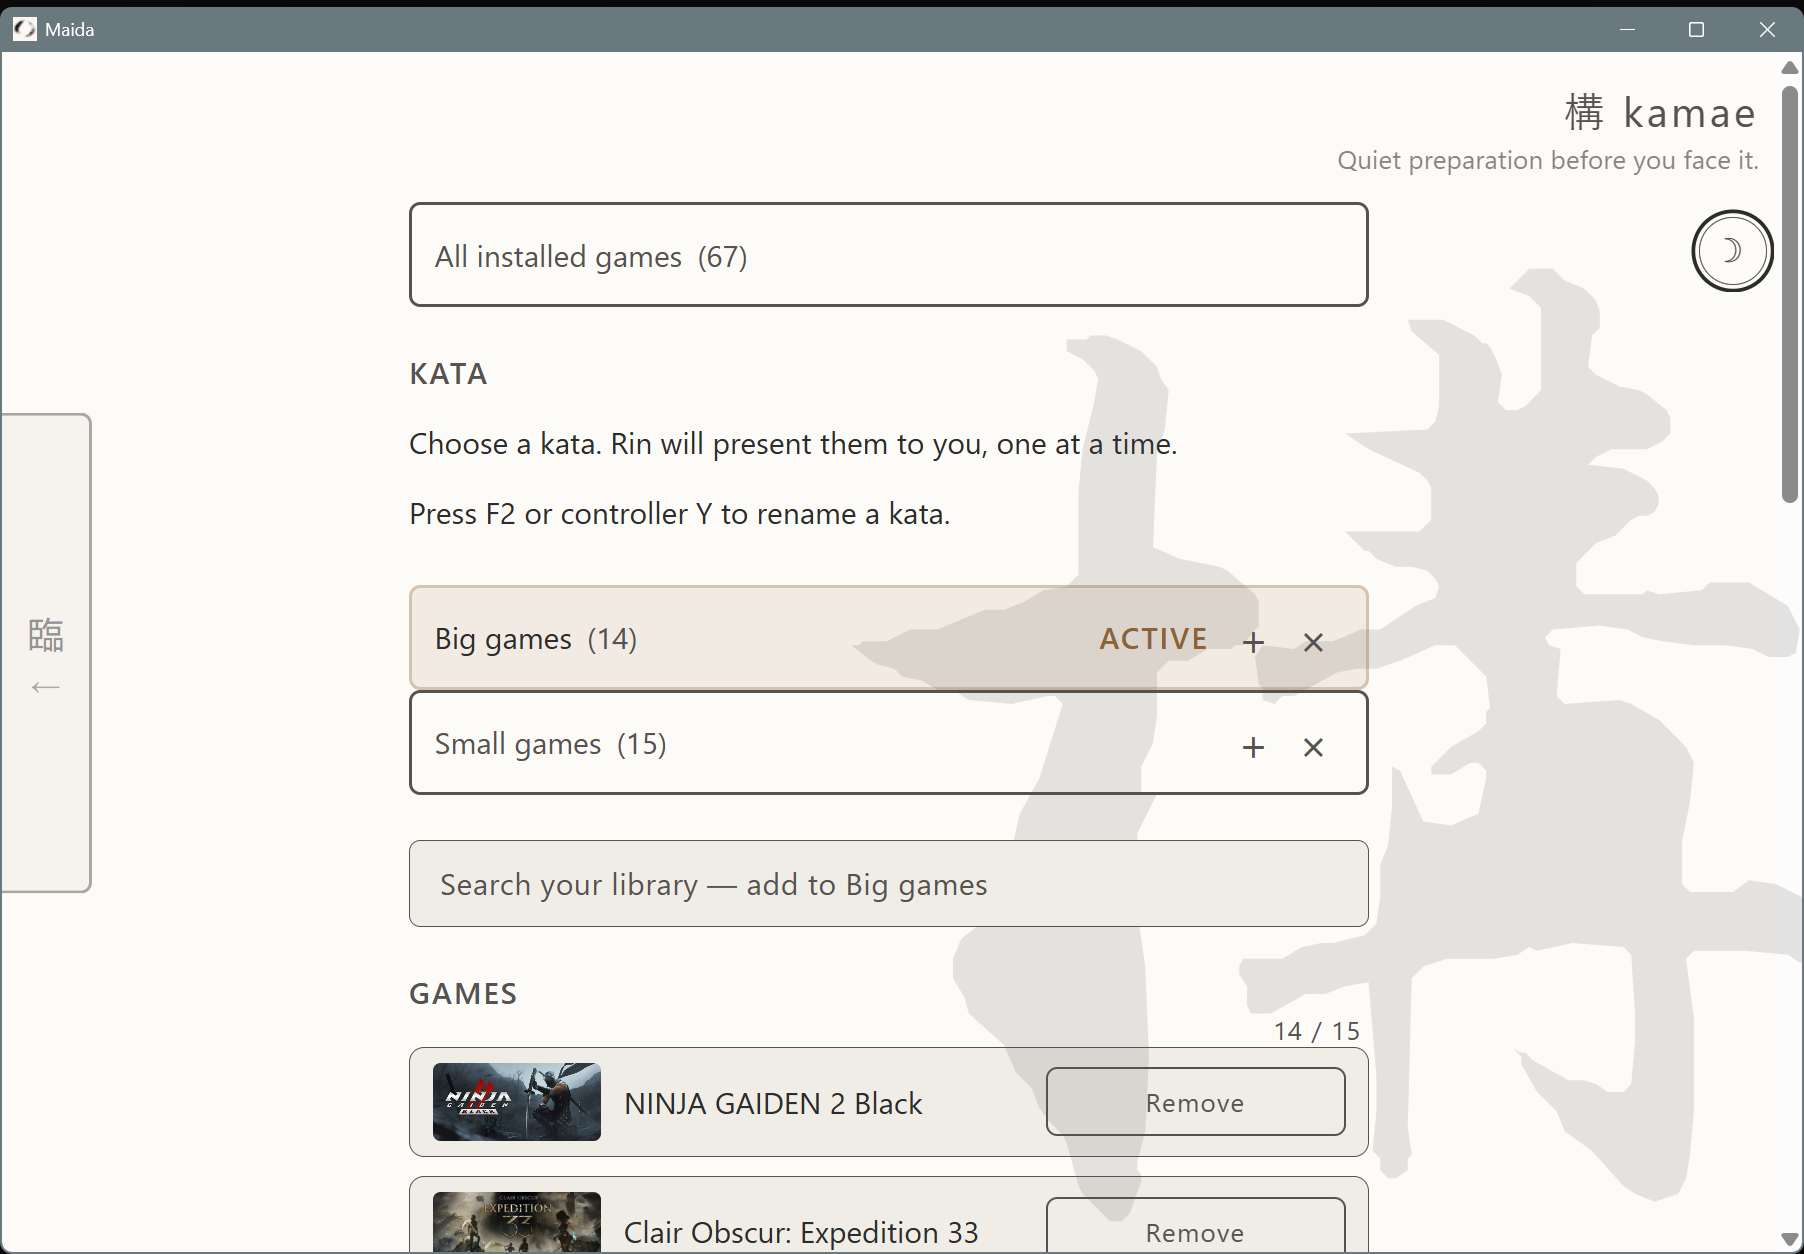
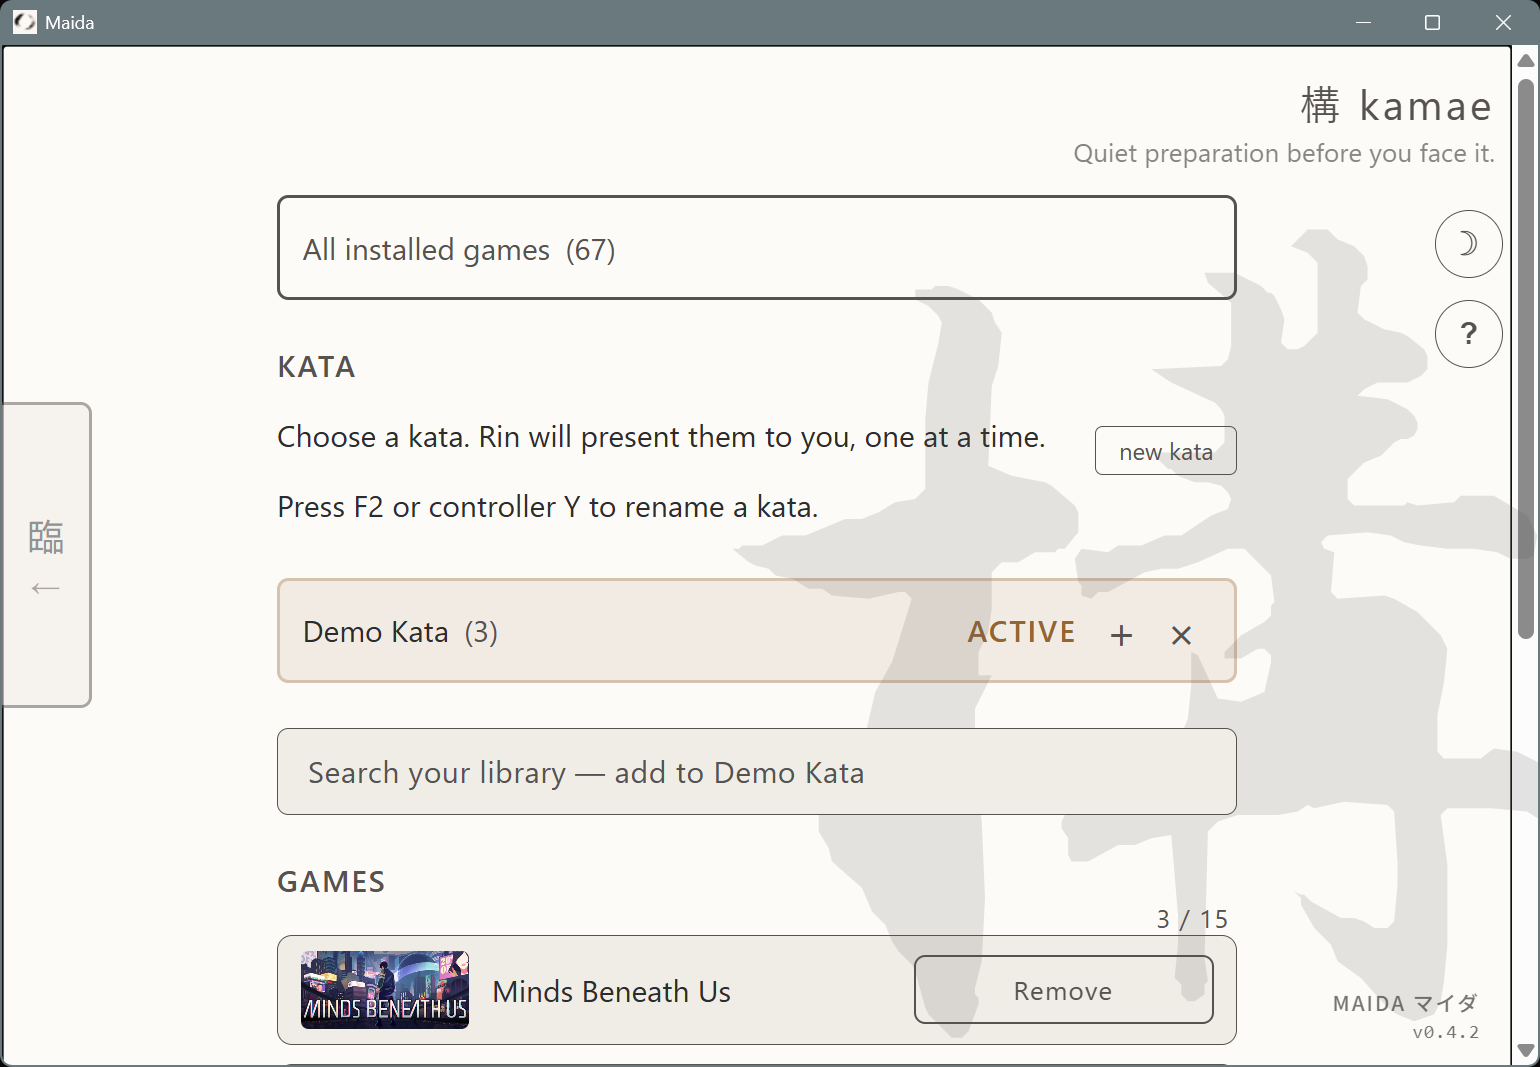
docs(maida): refresh README screenshots to v0.4.x + add brightraven.world links
Screenshots in screenshot/ and screenshot/trimmed/ updated to the
captures used for the current landing page and accessibility
statement. New captures added for kata variants, settings pages
4 and 5, the edit-kata state, the two-kata active state, and the
rin undo light-theme variant.

README also:

- Accessibility link moves from the gist URL to the umbrella
  statement at brightraven.world/accessibility/. The statement
  now covers supported assistive tech (NVDA on Windows; Orca on
  Linux partially supported due to architectural differences),
  features, and known limitations.
- User Manual section adds brightraven.world/maida/manual/ as
  the online (English) primary entry, while keeping the four
  Markdown gist files for the four-language readings.

diff --git a/README.md b/README.md
@@ -48,9 +48,13 @@ All game data stays on your device. Maida sends one anonymous ping per launch (r
 
 ## Accessibility
 
-Maida is built with accessibility from day one -- keyboard navigation, screen reader announcements, focus management, and high-contrast visual states. See the [Accessibility Statement](https://gist.github.com/devBrightRaven/b26da3e8aef40d683a92e66e5b783fec) for details.
+Maida is built with accessibility from day one -- keyboard navigation, screen reader announcements (NVDA tested on Windows; Orca on Linux partially supported), focus management, and respect for prefers-reduced-motion. See the full [Accessibility Statement](https://brightraven.world/accessibility/) at brightraven.world for scope, supported assistive technology, and known limitations.
 
 ## User Manual
+
+Online (English): [brightraven.world/maida/manual/](https://brightraven.world/maida/manual/)
+
+Markdown (four languages, on GitHub Gist):
 
 - [English](https://gist.github.com/devBrightRaven/b26da3e8aef40d683a92e66e5b783fec#file-user-manual-en-md)
 - [繁體中文](https://gist.github.com/devBrightRaven/b26da3e8aef40d683a92e66e5b783fec#file-user-manual-zh-tw-md)
